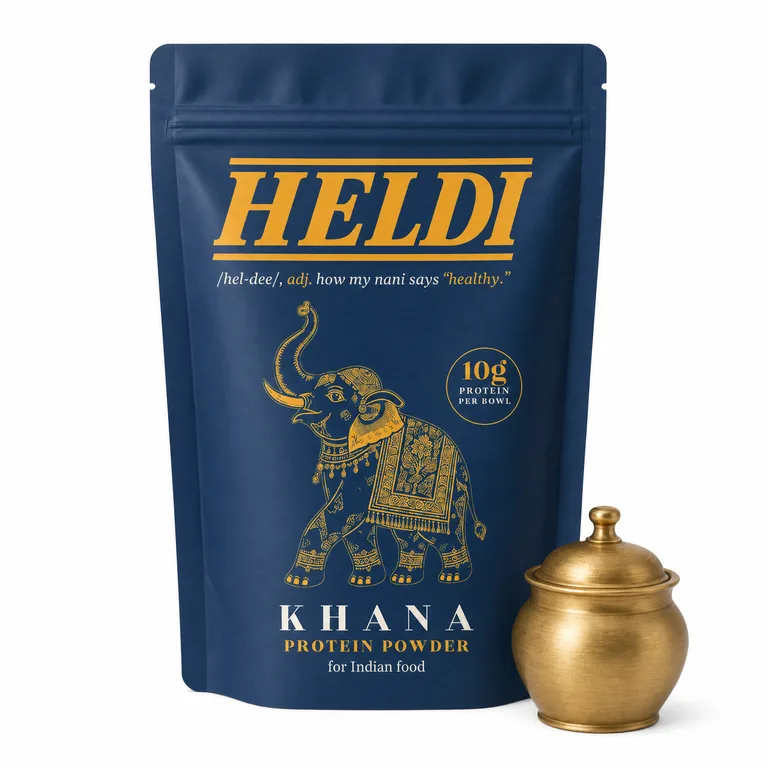
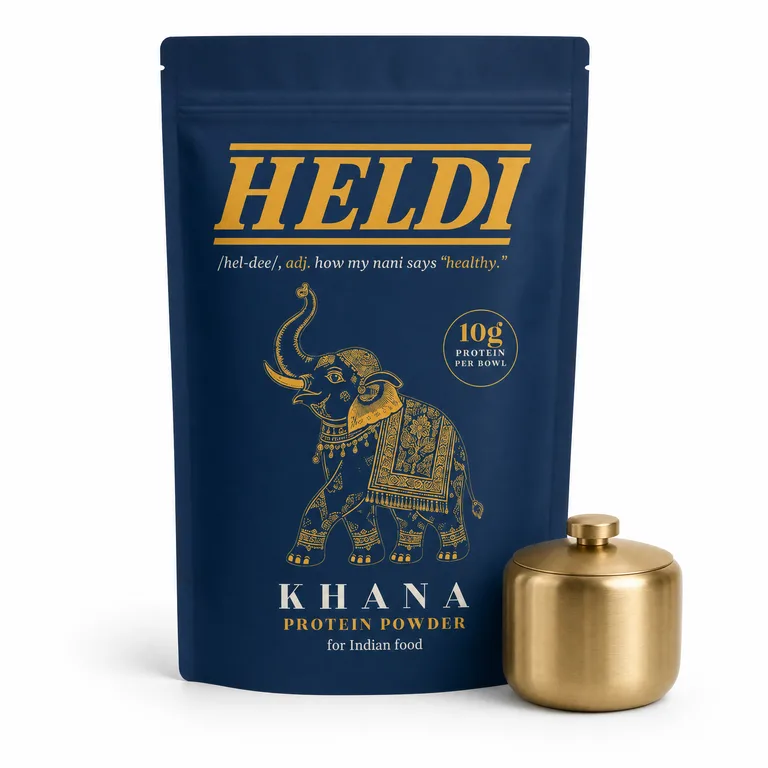
Count the chai honestly, zoom the pouches out, line the buttons up, and bring back the real jar
The menu chai line now reads 14g for a couple: about 4g from two mugs of
chai and 10g from a level tablespoon of Heldi Chai in each; the totals and
the band follow. The stir card starts a mug at 2g. The two-pouches tiles are
cut from a 90% window of the solo shots instead of 71%, so the whole pouch
shows with room around it (the shop front shares them, and the listing card
art is rebuilt from them). The shop front's See Khana and See Chai buttons
sit on one baseline whatever the pill count above them. The jar section is
re-rendered with the real gift jar as the reference, the straight-sided
brushed canister with the flat knob lid, in place of the pot-bellied one.

diff --git a/components/menu-gallery.tsx b/components/menu-gallery.tsx
@@ -19,13 +19,14 @@ type CourseSection = {
 };
 
 // Every table finishes with chai, and the chai is Heldi Chai. Counted for a
-// couple like the rest of the card: two mugs made with milk carry about 10g
-// of protein between them (whole milk 3.4g per 100ml, a mug about 150ml of
-// it), and one level tablespoon of Heldi Chai in each adds the pack's 5g,
-// read from chai-data.ts so it moves with the declaration.
+// couple like the rest of the card: two mugs of chai carry about 4g of
+// protein between them (a UK mug is mostly water with a splash of milk,
+// about 2g a mug), and one level tablespoon of Heldi Chai in each adds the
+// pack's 5g, read from chai-data.ts so it moves with the declaration. So the
+// line reads 14g: 4g from the chai, 10g from Heldi.
 const CHAI_MUGS_PER_TABLE = 2;
 const CHAI_BOOST_GRAMS = CHAI_MUGS_PER_TABLE * CHAI_PROTEIN_MARKETING_GRAMS;
-const CHAI_TO_FINISH: DishItem = { name: "Masala chai", grams: 10, chai: true };
+const CHAI_TO_FINISH: DishItem = { name: "Masala chai", grams: 4, chai: true };
 
 type MenuVariant = {
   id: string;

diff --git a/components/shop/pouch-picker.tsx b/components/shop/pouch-picker.tsx
@@ -41,7 +41,7 @@ const POUCHES: Pouch[] = [
     legalName: "Whey protein isolate blend with warm spices. Food supplement.",
     line: "Dal, curry, sabzi, raita. A heaped tablespoon stirred into the pot once it is off the heat, and nobody at the table can tell.",
     image: {
-      src: "/images/range/khana.webp?v=3",
+      src: "/images/range/khana.webp?v=4",
       alt: "The navy Heldi Khana pouch on a linen table"
     },
     pills: [
@@ -60,7 +60,7 @@ const POUCHES: Pouch[] = [
       "Whey protein and casein blend with chai spices and coconut sugar. Food supplement.",
     line: "Chai, tea, coffee, hot chocolate. A level tablespoon stirred into the mug once it is off the boil, and the cup still tastes like your cup.",
     image: {
-      src: "/images/range/chai.webp?v=2",
+      src: "/images/range/chai.webp?v=3",
       alt: "The terracotta Heldi Chai pouch on a linen table"
     },
     pills: [

diff --git a/components/range-section.tsx b/components/range-section.tsx
@@ -36,7 +36,7 @@ const RANGE: RangeProduct[] = [
     image: {
       // Cropped from the /shop gallery shot; masters in the gitignored
       // public/images/originals/pre-webp/shop/.
-      src: "/images/range/khana.webp?v=3",
+      src: "/images/range/khana.webp?v=4",
       alt: "The navy Heldi Khana pouch on a linen table"
     },
     href: "/shop/khana"
@@ -47,7 +47,7 @@ const RANGE: RangeProduct[] = [
     title: "Heldi Chai",
     line: "Chai, tea, coffee, hot chocolate. Stirred into the mug once it is off the boil.",
     image: {
-      src: "/images/range/chai.webp?v=2",
+      src: "/images/range/chai.webp?v=3",
       alt: "The terracotta Heldi Chai pouch on a linen table"
     },
     href: "/shop/chai"

diff --git a/components/stir-gallery.tsx b/components/stir-gallery.tsx
@@ -57,9 +57,9 @@ const DISHES: Dish[] = [
   {
     name: "Masala chai",
     tag: "TO FINISH",
-    // A mug of chai made with milk: about 150ml of whole milk at 3.4g per
-    // 100ml, rounded to the pot's whole grams.
-    base: 5,
+    // A mug of chai: mostly water with a splash of milk, about 2g. One level
+    // tablespoon of Heldi Chai takes it to 7g.
+    base: 2,
     image: "/images/stir-gallery/masala-chai.webp",
     video: "/videos/stir-gallery/masala-chai-stir.mp4",
     chai: true,

diff --git a/components/og/card.tsx b/components/og/card.tsx
@@ -69,7 +69,7 @@ export async function heldiOgImage({
   const artWidth = art === "elephant" ? 340 : art === "pouches" ? 400 : 300;
   // The two-pouch composite is landscape (1140x744); everything else is square
   // or portrait.
-  const artHeight = art === "pouches" ? Math.round((artWidth * 744) / 1140) : artWidth;
+  const artHeight = art === "pouches" ? Math.round((artWidth * 900) / 1280) : artWidth;
 
   return new ImageResponse(
     (

diff --git a/app/globals.css b/app/globals.css
@@ -9389,7 +9389,14 @@ a.living-card__tag:hover {
 
 .range-card--page .range-card__cta {
   align-self: flex-start;
-  margin-top: 0.75rem;
+  /* auto, not a fixed gap: the two tiles carry different pill counts, and the
+     CTAs have to sit on one baseline across the pair. */
+  margin-top: auto;
+  padding-top: 0.75rem;
+}
+
+.range-card--page .range-card__note {
+  margin-bottom: 0.75rem;
 }
 
 @media (max-width: 899px) {

diff --git a/components/heldi-homepage.tsx b/components/heldi-homepage.tsx
@@ -181,7 +181,7 @@ const HERO_SHOWCASE_PILLS: {
   }
 ];
 
-const IMAGE_VERSION = "ink-blue-11";
+const IMAGE_VERSION = "ink-blue-12";
 const IMAGE_BASE = "/images/variants/ink-blue";
 
 function imageSrc(path: string) {
